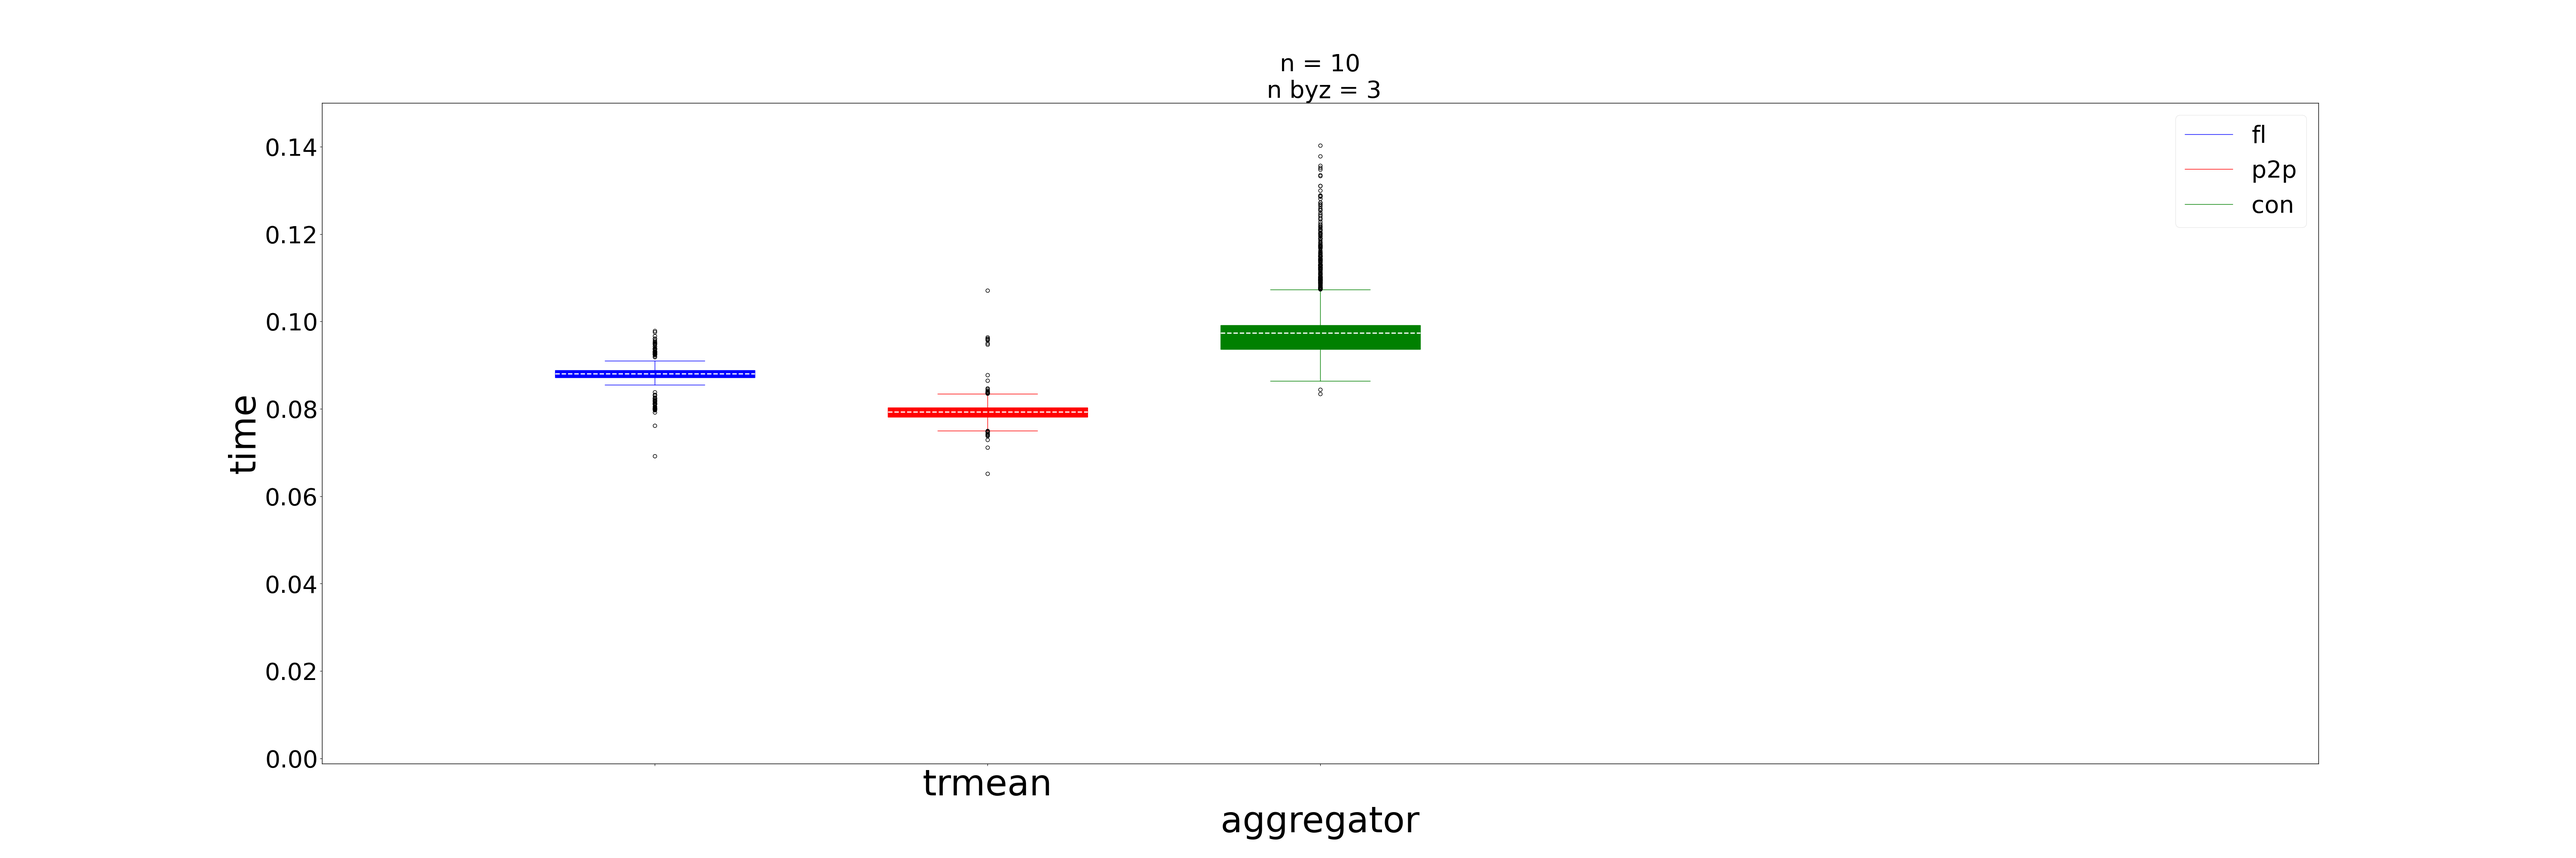
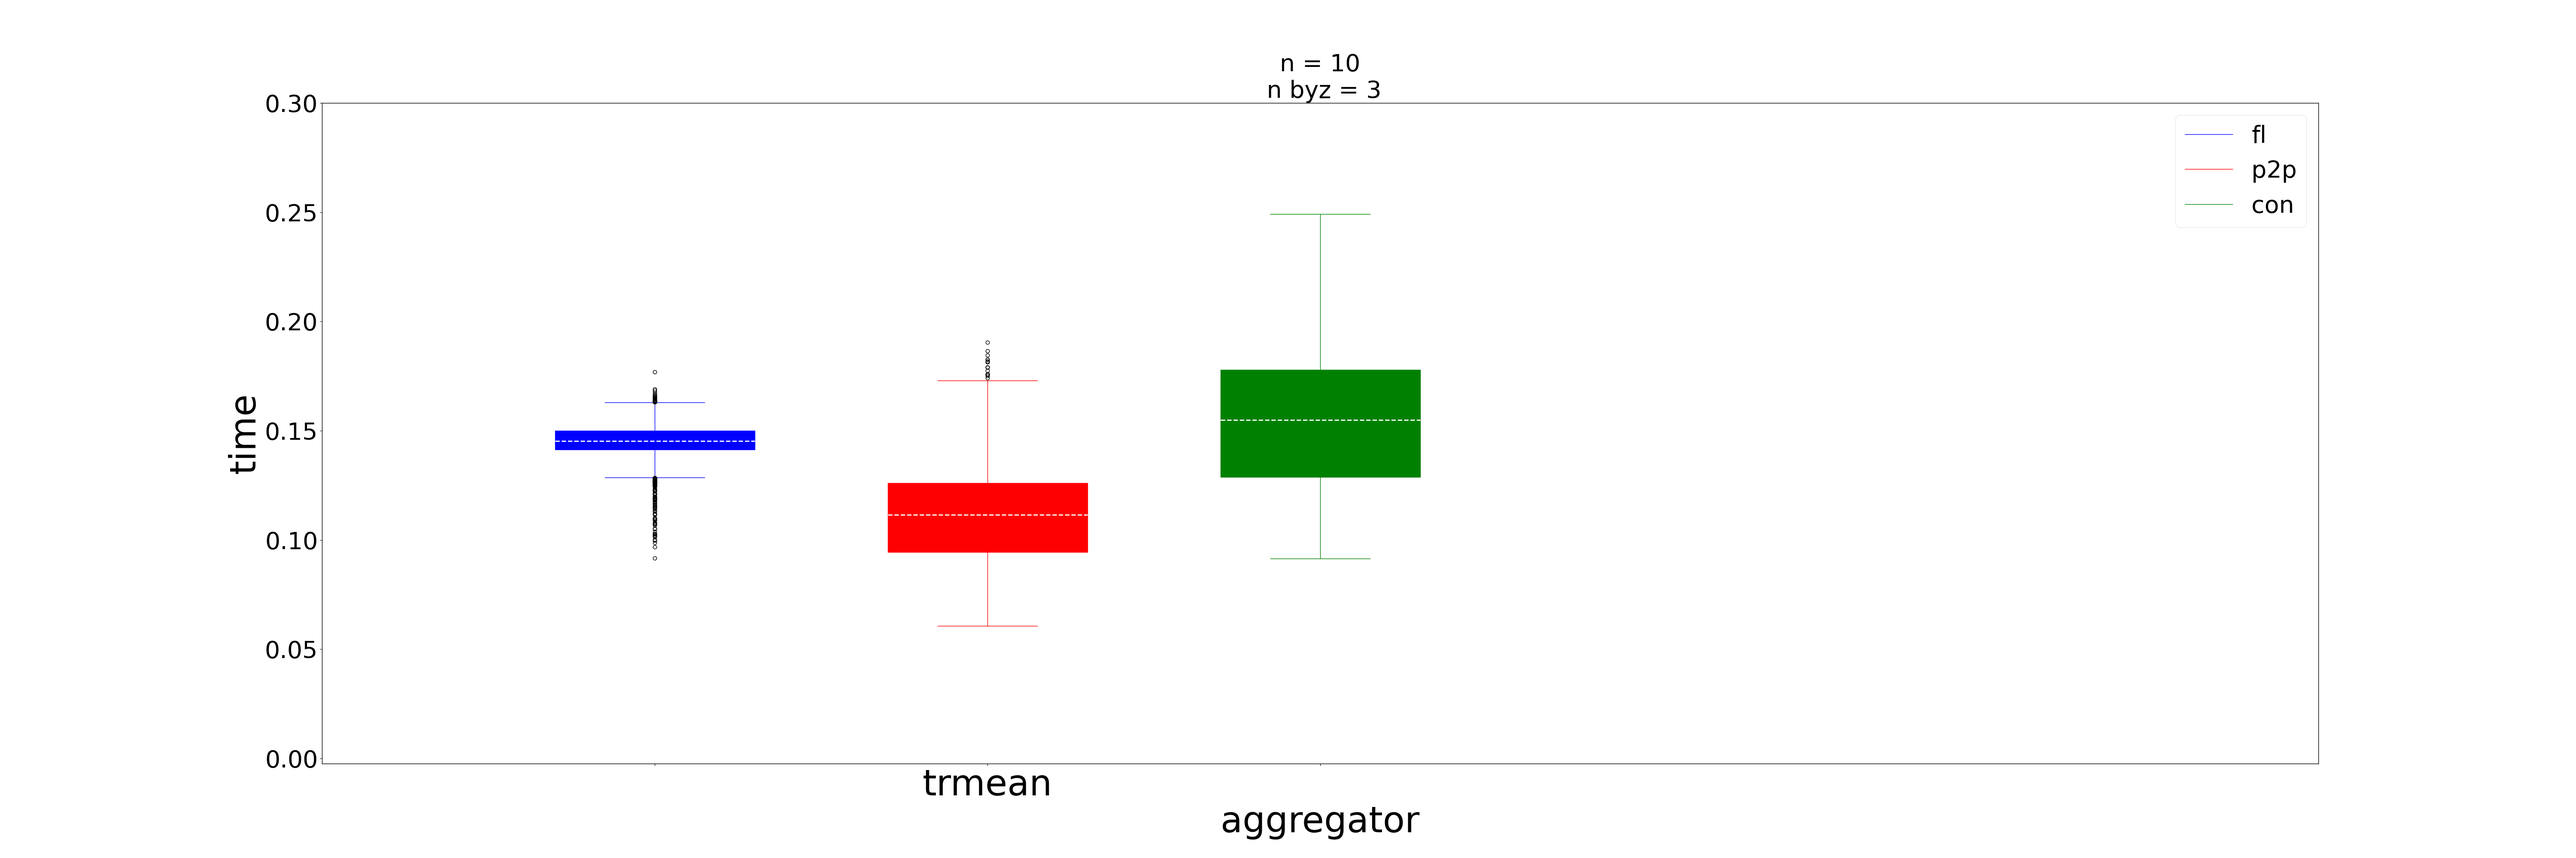
Performance analysis for the experiment with latency added!

diff --git a/main/Utils/Performance.py b/main/Utils/Performance.py
@@ -34,8 +34,8 @@ nb_byz = int(sys.argv[2])
 nb_rounds = int(sys.argv[3])
 nb_experiments = 3
 experiment = 1
-heterogeneity = "Homogeneous"
-# heterogeneity = "Heterogeneous"
+# heterogeneity = "Homogeneous"
+heterogeneity = "Heterogeneous"
 
 attacks = ["SF"]
 aggregators = ["trmean"]
@@ -83,8 +83,8 @@ def analyseAccuracy(aggregator, attack, nb_clients, nb_byz, res, senario):
     if senario == 'p2p':
         senario = 'Gossip_res'
     if senario == 'con':
-        # senario = 'Consensus_res'
-        senario = "FL_res"
+        senario = 'Consensus_res'
+        # senario = "FL_res"
 
     exps = []
     for exp in range(1, nb_experiments + 1):
@@ -140,6 +140,13 @@ def analysePerformance(aggregator, nb_clients, nb_byz, res, senario):
 
         res[aggregator]['time'].append(times)
         res[aggregator]['end_time'].append(end_times)
+    # res[agg]['end_time'] is a list of dicts, merge them into one dict
+    res[aggregator]['end_time'] = {key: list(value) for key, value in zip(res[aggregator]['end_time'][0].keys(), zip(*[d.values() for d in res[aggregator]['end_time']]))}
+    res[aggregator]['time'] = {key: list(value) for key, value in zip(res[aggregator]['time'][0].keys(), zip(*[d.values() for d in res[aggregator]['time']]))}
+    # then merge the values, which are lists of lists, of the dict into one list
+    res[aggregator]['end_time'] = {key: [item for sublist in value for item in sublist] for key, value in res[aggregator]['end_time'].items()}
+    res[aggregator]['time'] = {key: [item for sublist in value for item in sublist] for key, value in res[aggregator]['time'].items()}
+
 
 def setBoxColors_i(bp, num):
     for i in range(num):        
@@ -238,13 +245,13 @@ def violin_plot(fl, p2p, con):
     all_times['p2p'] = dict()
     all_times['con'] = dict()
     for agg in aggregators:
-        # all_times['fl'][agg] = [value for values in fl[agg]['time'].values() for value in values]
-        # all_times['p2p'][agg] = [value for values in p2p[agg]['time'].values() for value in values]
-        # all_times['con'][agg] = [value for values in con[agg]['time'].values() for value in values]
-        all_times['fl'][agg] = [value for item in fl[agg]['time'] for values in item.values() for value in values]
-        all_times['p2p'][agg] = [value for item in p2p[agg]['time'] for values in item.values() for value in values]
-        all_times['con'][agg] = [value for item in con[agg]['time'] for values in item.values() for value in values]
-
+        all_times['fl'][agg] = [value for values in fl[agg]['time'].values() for value in values]
+        all_times['p2p'][agg] = [value for values in p2p[agg]['time'].values() for value in values]
+        all_times['con'][agg] = [value for values in con[agg]['time'].values() for value in values]
+        # all_times['fl'][agg] = [value for item in fl[agg]['time'] for values in item.values() for value in values]
+        # all_times['p2p'][agg] = [value for item in p2p[agg]['time'] for values in item.values() for value in values]
+        # all_times['con'][agg] = [value for item in con[agg]['time'] for values in item.values() for value in values]
+    # print(len(all_times['fl']['trmean']))
     df = pd.DataFrame(columns = ['senario', 'trmean'])
     for key, value in all_times.items():
         times_df = pd.DataFrame({'senario': key, 'trmean': value['trmean']})
@@ -364,7 +371,7 @@ def all_accuracy_per_time_per_pace(fl, p2p, con, rank, trsh):
             ax.vlines(x=np.mean(con[agg][att][rank]['end_time'][con[agg][att][rank]['round'] - 2]), ymin = 0, ymax = trsh, color = 'black', linestyle = 'dotted', linewidth=2)
             ax.text(np.mean(con[agg][att][rank]['end_time'][con[agg][att][rank]['round'] - 2]), -0.005, str(round(np.mean(con[agg][att][rank]['end_time'][con[agg][att][rank]['round'] - 2]), 2)), horizontalalignment='center', verticalalignment='top', fontsize=20)
 
-            ax.set_xlim([0, np.max([np.mean(t) for t in p2p[agg][att][rank]['end_time']])])
+            # ax.set_xlim([0, np.max([np.mean(t) for t in p2p[agg][att][rank]['end_time']])])
             ax.set_ylim([0, np.max([np.mean(t) for t in p2p[agg][att][rank]['acc']]) + 0.1])
             ax.set_xlabel('time(s)')
             ax.set_ylabel('accuracy')
@@ -507,51 +514,52 @@ def main():
         analysePerformance(aggregator=agg, nb_clients=nb_clients, nb_byz=nb_byz, res=p2p, senario='p2p')
         analysePerformance(aggregator=agg, nb_clients=nb_clients, nb_byz=nb_byz, res=con, senario='con')
 
-    #     for att in attacks:
-    #         analyseAccuracy(aggregator=agg, attack=att, nb_clients=nb_clients, nb_byz=nb_byz, res=fl, senario='fl')
-    #         analyseAccuracy(aggregator=agg, attack=att, nb_clients=nb_clients, nb_byz=nb_byz, res=p2p, senario='p2p')
-    #         analyseAccuracy(aggregator=agg, attack=att, nb_clients=nb_clients, nb_byz=nb_byz, res=con, senario='con')
+        for att in attacks:
+            analyseAccuracy(aggregator=agg, attack=att, nb_clients=nb_clients, nb_byz=nb_byz, res=fl, senario='fl')
+            analyseAccuracy(aggregator=agg, attack=att, nb_clients=nb_clients, nb_byz=nb_byz, res=p2p, senario='p2p')
+            analyseAccuracy(aggregator=agg, attack=att, nb_clients=nb_clients, nb_byz=nb_byz, res=con, senario='con')
     # print("fl:", len(fl['trmean']['time']))
+    # print("fl", fl['trmean']['time'].values())
 #     # # print("p2p:", p2p)
 #     # # print("con:", con)
-    # all_accuracy_per_round(fl, p2p, con)
-    # all_accuracy_per_time(fl, p2p, con)
-    # accuracy_attack_plot(fl, "fl", nb_clients, nb_byz)
-    # accuracy_attack_plot(p2p, "p2p", nb_clients, nb_byz)
-    # accuracy_attack_plot(con, "con", nb_clients, nb_byz)
+    all_accuracy_per_round(fl, p2p, con)
+    all_accuracy_per_time(fl, p2p, con)
+    accuracy_attack_plot(fl, "fl", nb_clients, nb_byz)
+    accuracy_attack_plot(p2p, "p2p", nb_clients, nb_byz)
+    accuracy_attack_plot(con, "con", nb_clients, nb_byz)
 
-    # boxplots_i(boxes=[[[value for values in fl[agg]['time'].values() for value in values] for agg in aggregators], 
-    #                   [[value for values in p2p[agg]['time'].values() for value in values] for agg in aggregators],
-    #                   [[value for values in con[agg]['time'].values() for value in values] for agg in aggregators]],
-    #            num=3, labels=aggregators, boxes_tags=['fl', 'p2p', 'con'], x_label="aggregator", y_label="time", y_lim=0.15, filename="../../Plots/roundtime_" + str(nb_clients) + "_" + str(nb_byz) + ".png", 
-    #            title="n = " + str(nb_clients) + "\n n byz = " + str(nb_byz))
-    
+    boxplots_i(boxes=[[[value for values in fl[agg]['time'].values() for value in values] for agg in aggregators], 
+                      [[value for values in p2p[agg]['time'].values() for value in values] for agg in aggregators],
+                      [[value for values in con[agg]['time'].values() for value in values] for agg in aggregators]],
+               num=3, labels=aggregators, boxes_tags=['fl', 'p2p', 'con'], x_label="aggregator", y_label="time", y_lim=0.30, filename="../../Plots/roundtime_" + str(nb_clients) + "_" + str(nb_byz) + ".png", 
+               title="n = " + str(nb_clients) + "\n n byz = " + str(nb_byz))
+
 
     violin_plot(fl, p2p, con)
-    # slowest_fl, fastest_fl = find_fastest_slowest('fl', 'trmean')
-    # slowest_p2p, fastest_p2p = find_fastest_slowest('p2p', 'trmean')
-    # slowest_con, fastest_con = find_fastest_slowest('con', 'trmean')
-    # violin_plot_slowest_fastest({'slowest': slowest_fl, 'fastest': fastest_fl}, {'slowest': slowest_p2p, 'fastest': fastest_p2p}, {'slowest': slowest_con, 'fastest': fastest_con})
+    slowest_fl, fastest_fl = find_fastest_slowest('fl', 'trmean')
+    slowest_p2p, fastest_p2p = find_fastest_slowest('p2p', 'trmean')
+    slowest_con, fastest_con = find_fastest_slowest('con', 'trmean')
+    violin_plot_slowest_fastest({'slowest': slowest_fl, 'fastest': fastest_fl}, {'slowest': slowest_p2p, 'fastest': fastest_p2p}, {'slowest': slowest_con, 'fastest': fastest_con})
 
 # #### finding the fastest node that reached the trsh first
-    # trsh = 0.50
-    trsh = 0.75
+    trsh = 0.60
+    # trsh = 0.75
     fl_slowest_fastest = {'trmean': {'SF': find_fastest_slowest_trsh('fl', 'trmean', 'SF', trsh)}}
     p2p_slowest_fastest = {'trmean': {'SF': find_fastest_slowest_trsh('p2p', 'trmean', 'SF', trsh)}}
     con_slowest_fastest = {'trmean': {'SF': find_fastest_slowest_trsh('con', 'trmean', 'SF', trsh)}}
     # print(p2p_slowest_fastest['trmean']['SF']['fastest']['acc'])
     all_accuracy_per_time_per_pace(fl_slowest_fastest, p2p_slowest_fastest, con_slowest_fastest, 'fastest', trsh)
-    # all_accuracy_per_time_per_pace(fl_slowest_fastest, p2p_slowest_fastest, con_slowest_fastest, 'slowest')
+    all_accuracy_per_time_per_pace(fl_slowest_fastest, p2p_slowest_fastest, con_slowest_fastest, 'slowest', trsh)
 
 ## accuracy per time per client
-    # all_clients_acccs('p2p', 'trmean', 'SF')
-    # all_clients_acccs('fl', 'trmean', 'SF')
-    # all_clients_acccs('con', 'trmean', 'SF')
+    all_clients_acccs('p2p', 'trmean', 'SF')
+    all_clients_acccs('fl', 'trmean', 'SF')
+    all_clients_acccs('con', 'trmean', 'SF')
 
 ### finding the orders of clients
-    # print(readOrders(0, nb_clients, nb_byz, nb_rounds, 'trmean', 'SF', 'fl'))
+    print(readOrders(0, nb_clients, nb_byz, nb_rounds, 'trmean', 'SF', 'fl'))
     # print(readOrders(0, nb_clients, nb_byz, nb_rounds, 'trmean', 'SF', 'con'))
-    # for i in range(nb_clients):
-    #     print(i, readOrders(i, nb_clients, nb_byz, nb_rounds, 'trmean', 'SF', 'p2p'))
+    for i in range(nb_clients):
+        print(i, readOrders(i, nb_clients, nb_byz, nb_rounds, 'trmean', 'SF', 'p2p'))
 if __name__ == "__main__":
     main()
